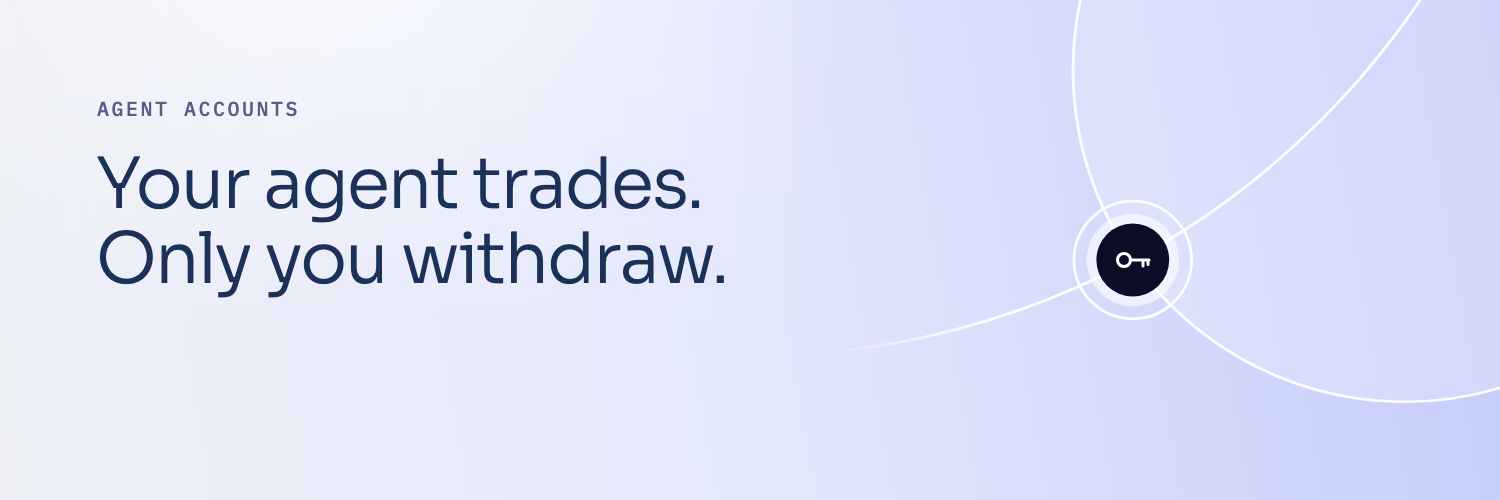
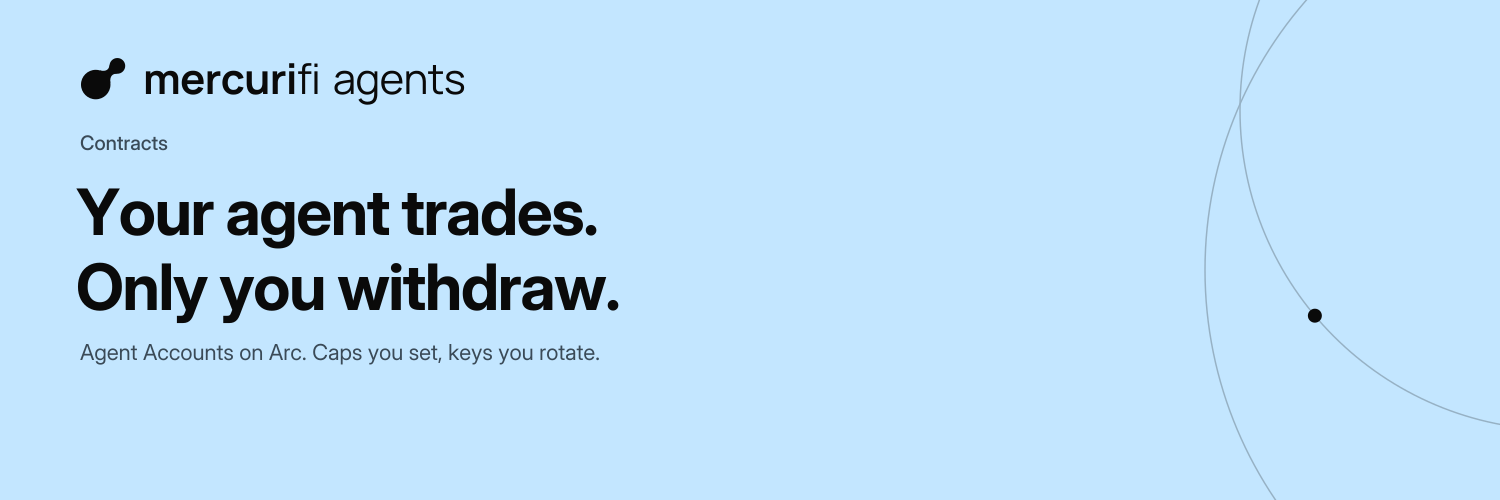
Move the README to the Mercurifi brand
New banners and mark on the brand-v2 palette, badge colours to match, a
link to the SDK, and a CODEOWNERS file naming the maintainer.

diff --git a/README.md b/README.md
@@ -12,25 +12,26 @@
 <h1 align="center">Mercurifi Agent Accounts · contracts</h1>
 
 <p align="center">
-  <a href="deployments/manifest-5042002.json"><img src="https://img.shields.io/badge/Arc_testnet-target_chain_5042002-43459D?style=flat-square" alt="Arc testnet target, chain 5042002"></a>
-  <a href="deployments/5042002.json"><img src="https://img.shields.io/badge/release-1.0.0--beta.1_testnet-1B3158?style=flat-square" alt="release 1.0.0-beta.1 on testnet"></a>
-  <a href="#build-and-verify"><img src="https://img.shields.io/badge/build-pinned-1B3158?style=flat-square" alt="build pinned"></a>
-  <a href="foundry.toml"><img src="https://img.shields.io/badge/solidity-0.8.26-1B3158?style=flat-square" alt="Solidity 0.8.26"></a>
-  <a href="src/AgentAccount.sol"><img src="https://img.shields.io/badge/accounts-EIP--1167_clones-1B3158?style=flat-square" alt="EIP-1167 clones"></a>
-  <a href="LICENSE"><img src="https://img.shields.io/badge/license-MIT-1B3158?style=flat-square" alt="MIT license"></a>
+  <a href="deployments/manifest-5042002.json"><img src="https://img.shields.io/badge/Arc_testnet-target_chain_5042002-C3E6FF?style=flat-square" alt="Arc testnet target, chain 5042002"></a>
+  <a href="deployments/5042002.json"><img src="https://img.shields.io/badge/release-1.0.0--beta.1_testnet-0A0A0A?style=flat-square" alt="release 1.0.0-beta.1 on testnet"></a>
+  <a href="#build-and-verify"><img src="https://img.shields.io/badge/build-pinned-0A0A0A?style=flat-square" alt="build pinned"></a>
+  <a href="foundry.toml"><img src="https://img.shields.io/badge/solidity-0.8.26-0A0A0A?style=flat-square" alt="Solidity 0.8.26"></a>
+  <a href="src/AgentAccount.sol"><img src="https://img.shields.io/badge/accounts-EIP--1167_clones-0A0A0A?style=flat-square" alt="EIP-1167 clones"></a>
+  <a href="LICENSE"><img src="https://img.shields.io/badge/license-MIT-0A0A0A?style=flat-square" alt="MIT license"></a>
 </p>
 
 <p align="center">
   <a href="https://launch.mercuri.finance">launch.mercuri.finance</a> ·
   <a href="https://trade.mercuri.finance">trade.mercuri.finance</a> ·
-  <a href="https://docs.mercuri.finance">docs.mercuri.finance</a>
+  <a href="https://docs.mercuri.finance">docs.mercuri.finance</a> ·
+  <a href="https://github.com/mercuri-finance/mercurifi-sdk">SDK (TypeScript, Python)</a>
 </p>
 
 The Solidity source of Mercurifi Agent Accounts: per-user vaults on Arc from which the owner's own bot or AI agent
 trades within caps the owner sets. Agent keys can buy and sell on Mercurifi Launch bonding curves, swap on graduated
 Launch pools through Uniswap's Universal Router, launch tokens and claim creator fees. They can never withdraw. Only the
 owner can withdraw, and only to itself. Contracts, the pinned sources they compile against, the deployment inputs and
-the release evidence. The backend, the SDK and the web app are separate.
+the release evidence. The backend, the [SDK](https://github.com/mercuri-finance/mercurifi-sdk) and the web app are separate.
 
 The accounts span Launch (curves, launches, fees) and the graduated pools, so they live in their own repository, apart
 from the Launch and Trade contract sets. Launch's deployed contracts stay in
